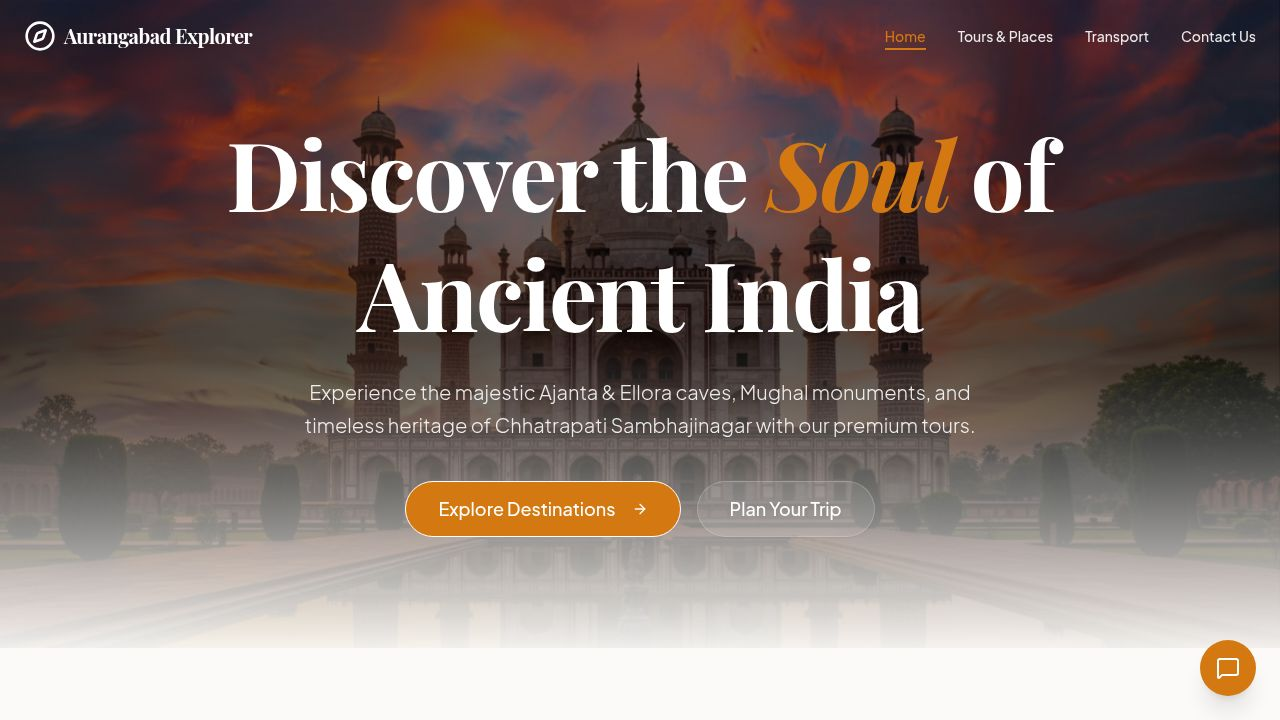
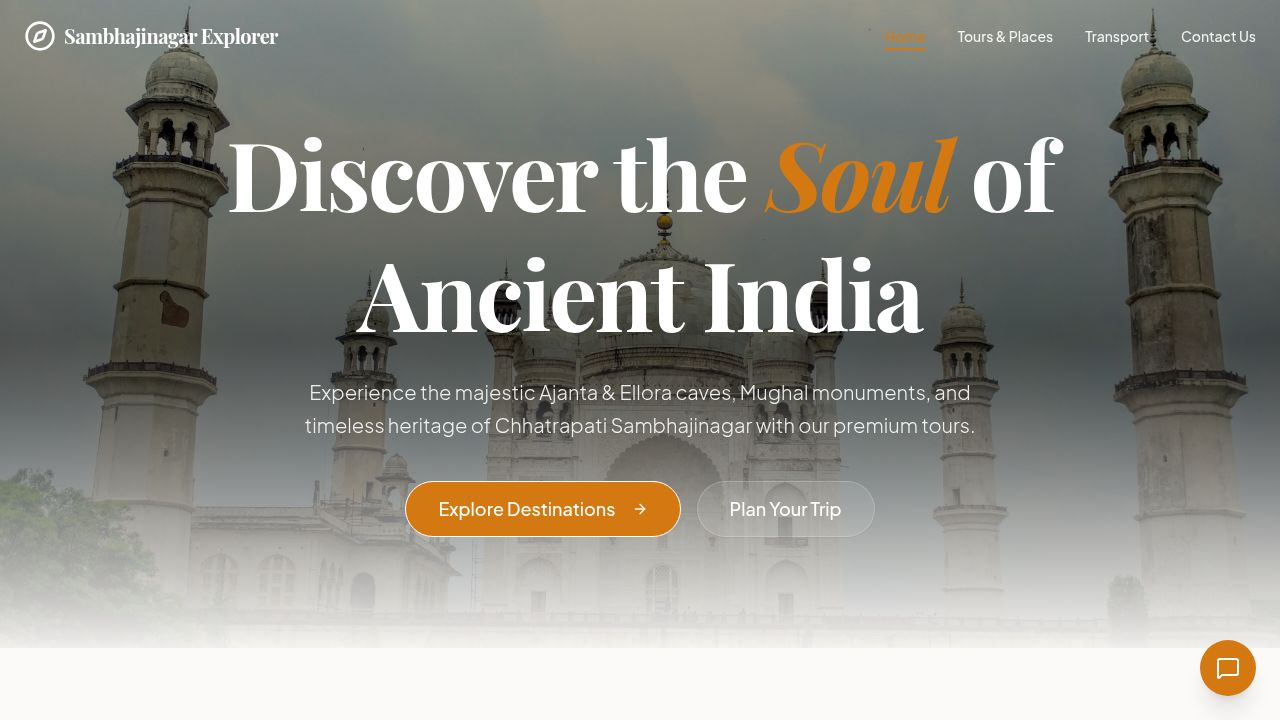
Add explicit type annotations to all route handlers and middleware
Add explicit RequestHandler types to various API endpoints and middleware functions to resolve TypeScript implicit any errors during Vercel builds.

Replit-Commit-Author: Agent
Replit-Commit-Session-Id: fcabf5b9-433c-41b6-bb54-2bd336ba1be6
Replit-Commit-Checkpoint-Type: full_checkpoint
Replit-Commit-Event-Id: a7ddd769-9ffb-4593-b17d-40dd664fb1ee
Replit-Commit-Screenshot-Url: https://storage.googleapis.com/screenshot-production-us-central1/131892f6-246e-4446-bfb6-adb0c7c0f410/fcabf5b9-433c-41b6-bb54-2bd336ba1be6/H09Q2dU
Replit-Helium-Checkpoint-Created: true

diff --git a/artifacts/api-server/src/app.ts b/artifacts/api-server/src/app.ts
@@ -1,13 +1,15 @@
 import express from "express";
+import type { RequestHandler } from "express";
+import type { ServerResponse } from "http";
 import cors from "cors";
 import router from "./routes";
 import { logger } from "./lib/logger";
 
 const app = express();
 
-app.use((req, res, next) => {
+const requestLogger: RequestHandler = (req, res, next) => {
   const start = Date.now();
-  res.on("finish", () => {
+  (res as unknown as ServerResponse).on("finish", () => {
     logger.info({
       method: req.method,
       url: req.url.split("?")[0],
@@ -16,13 +18,14 @@ app.use((req, res, next) => {
     });
   });
   next();
-});
+};
 
+app.use(requestLogger);
 app.use(cors());
 app.use(express.json());
 app.use(express.urlencoded({ extended: true }));
 
-app.get("/", (_req, res) => {
+app.get("/", ((_req, res) => {
   res.json({
     name: "CSN Explorer API",
     version: "1.0.0",
@@ -35,7 +38,7 @@ app.get("/", (_req, res) => {
       "POST /api/inquiries",
     ],
   });
-});
+}) as RequestHandler);
 
 app.use("/api", router);
 

diff --git a/artifacts/api-server/src/routes/tours.ts b/artifacts/api-server/src/routes/tours.ts
@@ -1,4 +1,5 @@
 import { Router } from "express";
+import type { RequestHandler } from "express";
 
 const router = Router();
 
@@ -10,15 +11,15 @@ const tours = [
   { id: 5, name: "Grishneshwar Temple", category: "temple", description: "One of the 12 Jyotirlinga shrines dedicated to Lord Shiva.", location: "Verul, near Ellora", duration: "2 hours", highlights: ["12th Jyotirlinga shrine"], imageUrl: "https://upload.wikimedia.org/wikipedia/commons/a/ad/Grishneshwar_temple_in_Aurangabad_district.jpg", featured: true, rating: 4.7, price: 0 },
 ];
 
-router.get("/tours", (_req, res) => {
+router.get("/tours", ((_req, res) => {
   res.json(tours);
-});
+}) as RequestHandler);
 
-router.get("/tours/featured", (_req, res) => {
+router.get("/tours/featured", ((_req, res) => {
   res.json(tours.filter((t) => t.featured));
-});
+}) as RequestHandler);
 
-router.get("/tours/:id", (req, res) => {
+router.get("/tours/:id", ((req, res) => {
   const id = Number(req.params["id"]);
   const tour = tours.find((t) => t.id === id);
   if (!tour) {
@@ -26,6 +27,6 @@ router.get("/tours/:id", (req, res) => {
     return;
   }
   res.json(tour);
-});
+}) as RequestHandler);
 
 export default router;

diff --git a/artifacts/api-server/src/routes/health.ts b/artifacts/api-server/src/routes/health.ts
@@ -1,9 +1,10 @@
 import { Router } from "express";
+import type { RequestHandler } from "express";
 
 const router = Router();
 
-router.get("/healthz", (_req, res) => {
+router.get("/healthz", ((_req, res) => {
   res.json({ status: "ok" });
-});
+}) as RequestHandler);
 
 export default router;

diff --git a/artifacts/api-server/src/routes/inquiries.ts b/artifacts/api-server/src/routes/inquiries.ts
@@ -1,9 +1,10 @@
 import { Router } from "express";
+import type { RequestHandler } from "express";
 import { logger } from "../lib/logger";
 
 const router = Router();
 
-router.post("/inquiries", (req, res) => {
+router.post("/inquiries", ((req, res) => {
   const { name, email, phone } = req.body ?? {};
   if (!name || !email || !phone) {
     res.status(400).json({ error: "name, email, and phone are required" });
@@ -11,6 +12,6 @@ router.post("/inquiries", (req, res) => {
   }
   logger.info({ name, email }, "New tour inquiry received");
   res.status(201).json({ message: "Inquiry received. We will contact you shortly." });
-});
+}) as RequestHandler);
 
 export default router;

diff --git a/artifacts/api-server/src/routes/transport.ts b/artifacts/api-server/src/routes/transport.ts
@@ -1,4 +1,5 @@
 import { Router } from "express";
+import type { RequestHandler } from "express";
 
 const router = Router();
 
@@ -10,8 +11,8 @@ const transportOptions = [
   { id: 5, from: "Pune", to: "Chhatrapati Sambhajinagar", vehicleType: "SUV", capacity: 6, pricePerPerson: 1100, duration: "4-5 hours" },
 ];
 
-router.get("/transport", (_req, res) => {
+router.get("/transport", ((_req, res) => {
   res.json(transportOptions);
-});
+}) as RequestHandler);
 
 export default router;